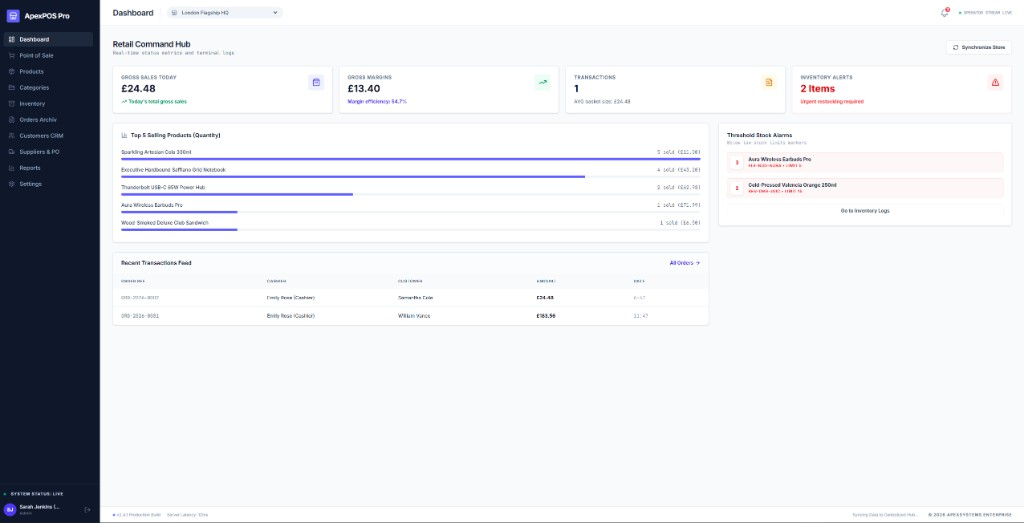
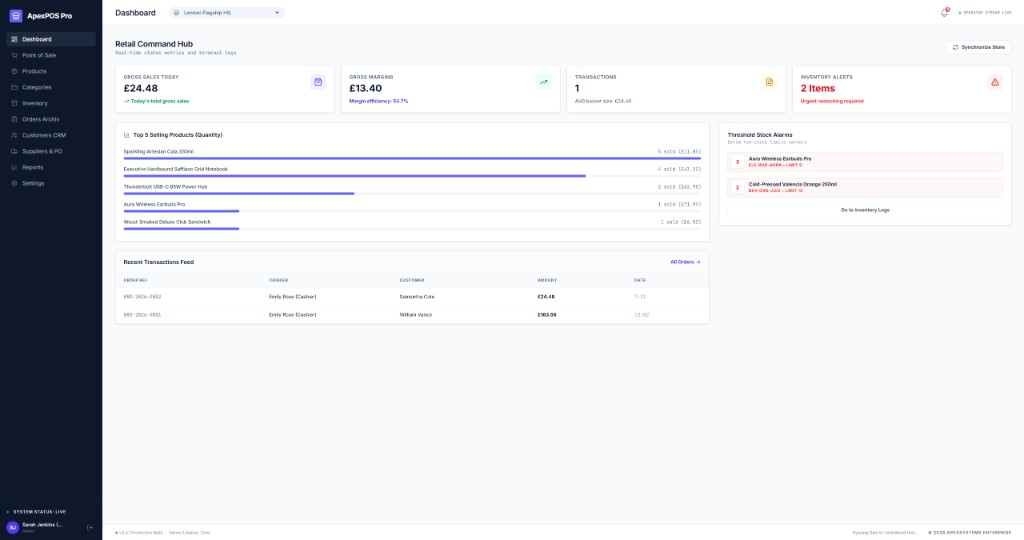
Publish Apex POS showcase with Render live demo
Update README with dashboard screenshot, live demo link, and full project
documentation for the POS-Inventory-Management-System repository.

diff --git a/README.md b/README.md
@@ -4,8 +4,8 @@
 
 ### Full-stack retail operations platform — POS checkout, multi-branch inventory, CRM, purchase orders, analytics & real-time alerts.
 
-[![Live Demo](https://img.shields.io/badge/Live_Demo-View_App-6366F1?style=for-the-badge&logo=googlecloud&logoColor=white)](https://envault-sandbox-507307610839.europe-west2.run.app)
-[![GitHub](https://img.shields.io/badge/GitHub-envault--sandbox-181717?style=for-the-badge&logo=github&logoColor=white)](https://github.com/Vera93203/envault-sandbox)
+[![Live Demo](https://img.shields.io/badge/Live_Demo-View_App-46E3B7?style=for-the-badge&logo=render&logoColor=white)](https://pos-inventory-app-bm8u.onrender.com/)
+[![GitHub](https://img.shields.io/badge/GitHub-POS--Inventory-181717?style=for-the-badge&logo=github&logoColor=white)](https://github.com/mkkbun/POS-Inventory-Management-System)
 [![Node.js](https://img.shields.io/badge/Node.js-20%2B-339933?style=flat-square&logo=node.js&logoColor=white)](https://nodejs.org/)
 [![React](https://img.shields.io/badge/React-19-61DAFB?style=flat-square&logo=react&logoColor=black)](https://react.dev/)
 [![TypeScript](https://img.shields.io/badge/TypeScript-5.8-3178C6?style=flat-square&logo=typescript&logoColor=white)](https://www.typescriptlang.org/)
@@ -13,15 +13,15 @@
 [![Tailwind CSS](https://img.shields.io/badge/Tailwind-4-06B6D4?style=flat-square&logo=tailwindcss&logoColor=white)](https://tailwindcss.com/)
 [![License](https://img.shields.io/badge/License-Apache--2.0-blue?style=flat-square)](LICENSE)
 
-**[Try the live app →](https://envault-sandbox-507307610839.europe-west2.run.app)** &nbsp;·&nbsp; [Features](#features) &nbsp;·&nbsp; [Quick Start](#quick-start) &nbsp;·&nbsp; [Demo Accounts](#demo-accounts) &nbsp;·&nbsp; [API Reference](#api-reference)
+**[Try the live app →](https://pos-inventory-app-bm8u.onrender.com/)** &nbsp;·&nbsp; [Features](#features) &nbsp;·&nbsp; [Quick Start](#quick-start) &nbsp;·&nbsp; [Demo Accounts](#demo-accounts) &nbsp;·&nbsp; [API Reference](#api-reference)
 
 <br/>
 
-<a href="https://envault-sandbox-507307610839.europe-west2.run.app">
-  <img src="docs/images/dashboard-preview.png" alt="ApexPOS Pro Dashboard — live retail command hub with sales KPIs, top sellers, stock alerts, and recent transactions" width="100%" />
+<a href="https://pos-inventory-app-bm8u.onrender.com/">
+  <img src="docs/images/dashboard-preview.png" alt="ApexPOS Pro Dashboard — Retail Command Hub with sales KPIs, top sellers, stock alerts, and recent transactions" width="100%" />
 </a>
 
-<sub>Click the screenshot to open the live deployment on Google Cloud Run</sub>
+<sub>Click the screenshot to open the live app on Render</sub>
 
 </div>
 
@@ -31,8 +31,9 @@
 
 | | |
 |---|---|
-| **App URL** | [https://envault-sandbox-507307610839.europe-west2.run.app](https://envault-sandbox-507307610839.europe-west2.run.app) |
-| **Hosted on** | Google Cloud Run (Europe West 2) |
+| **App URL** | [https://pos-inventory-app-bm8u.onrender.com/](https://pos-inventory-app-bm8u.onrender.com/) |
+| **Repository** | [github.com/mkkbun/POS-Inventory-Management-System](https://github.com/mkkbun/POS-Inventory-Management-System) |
+| **Hosted on** | [Render](https://render.com/) |
 | **Stack** | React 19 · Express · TypeScript · Tailwind CSS |
 | **Login** | Use demo accounts below — one-click prefill on the login screen |
 
@@ -121,7 +122,7 @@ The app ships with realistic seed data across **3 branches**, **6 products**, sa
 | **Real-time** | Server-Sent Events (SSE) |
 | **AI (optional)** | Google Gemini API (`@google/genai`) |
 | **Build** | Vite 6, esbuild, tsx |
-| **Deployment** | Google Cloud Run |
+| **Deployment** | [Render](https://render.com/) |
 | **Data (current)** | JSON file store (`data/db.json`) with in-memory caching |
 | **Data (planned)** | PostgreSQL via Prisma (`prisma/schema.prisma` included) |
 
@@ -136,8 +137,8 @@ The app ships with realistic seed data across **3 branches**, **6 products**, sa
 ### 1. Clone the repository
 
 ```bash
-git clone https://github.com/Vera93203/envault-sandbox.git
-cd envault-sandbox
+git clone https://github.com/mkkbun/POS-Inventory-Management-System.git
+cd POS-Inventory-Management-System
 ```
 
 ### 2. Install dependencies
@@ -204,7 +205,7 @@ flowchart TB
         AI[Gemini Insights]
     end
 
-    subgraph Deploy["Google Cloud Run"]
+    subgraph Deploy["Render"]
         App[Unified Node.js Server]
     end
 
@@ -274,7 +275,7 @@ All protected routes require `Authorization: Bearer <token>`.
 ## Project Structure
 
 ```
-envault-sandbox/
+POS-Inventory-Management-System/
 ├── docs/images/
 │   └── dashboard-preview.png   # README showcase screenshot
 ├── src/
@@ -310,7 +311,7 @@ envault-sandbox/
 - [x] JWT auth with role-based access control
 - [x] Real-time SSE notifications
 - [x] Financial reporting dashboard
-- [x] Google Cloud Run deployment
+- [x] Render cloud deployment
 - [ ] PostgreSQL migration (Prisma schema ready)
 - [ ] Password hashing (bcrypt / argon2)
 - [ ] Receipt printing & barcode scanner support
@@ -336,8 +337,8 @@ Licensed under the **Apache License 2.0** — see [LICENSE](LICENSE).
 
 <div align="center">
 
-**[View Live Demo](https://envault-sandbox-507307610839.europe-west2.run.app)** &nbsp;·&nbsp; **[GitHub Repository](https://github.com/Vera93203/envault-sandbox)**
+**[View Live Demo](https://pos-inventory-app-bm8u.onrender.com/)** &nbsp;·&nbsp; **[GitHub Repository](https://github.com/mkkbun/POS-Inventory-Management-System)**
 
-Built for modern retail operations · Deployed on Google Cloud Run
+Built for modern retail operations · Deployed on Render
 
 </div>